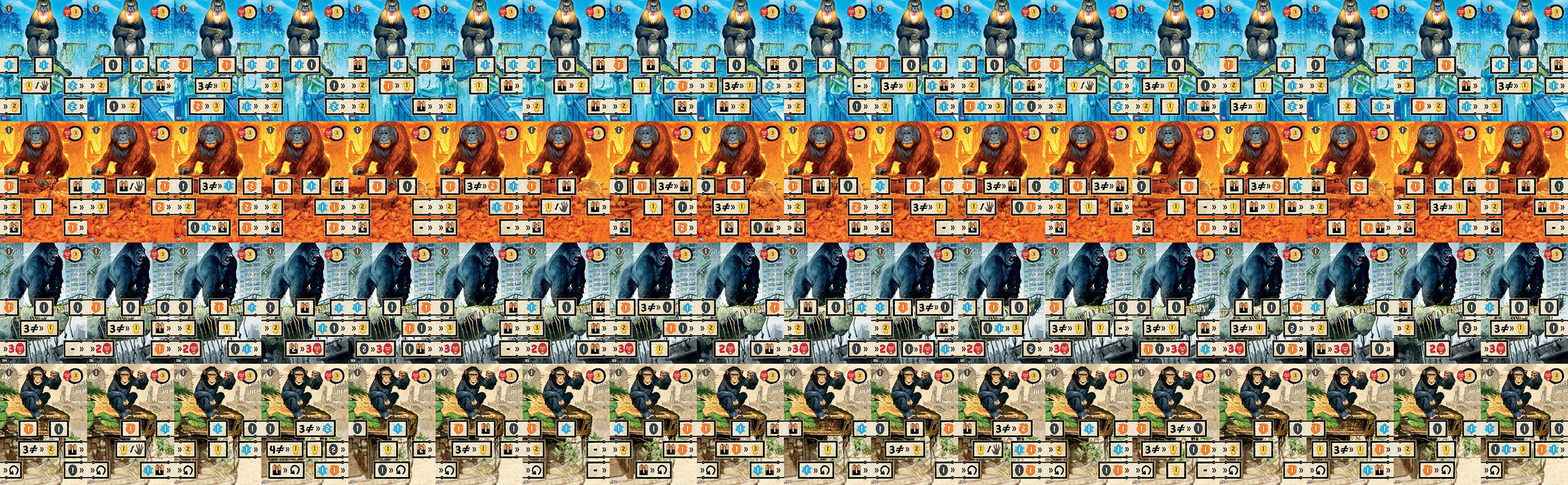
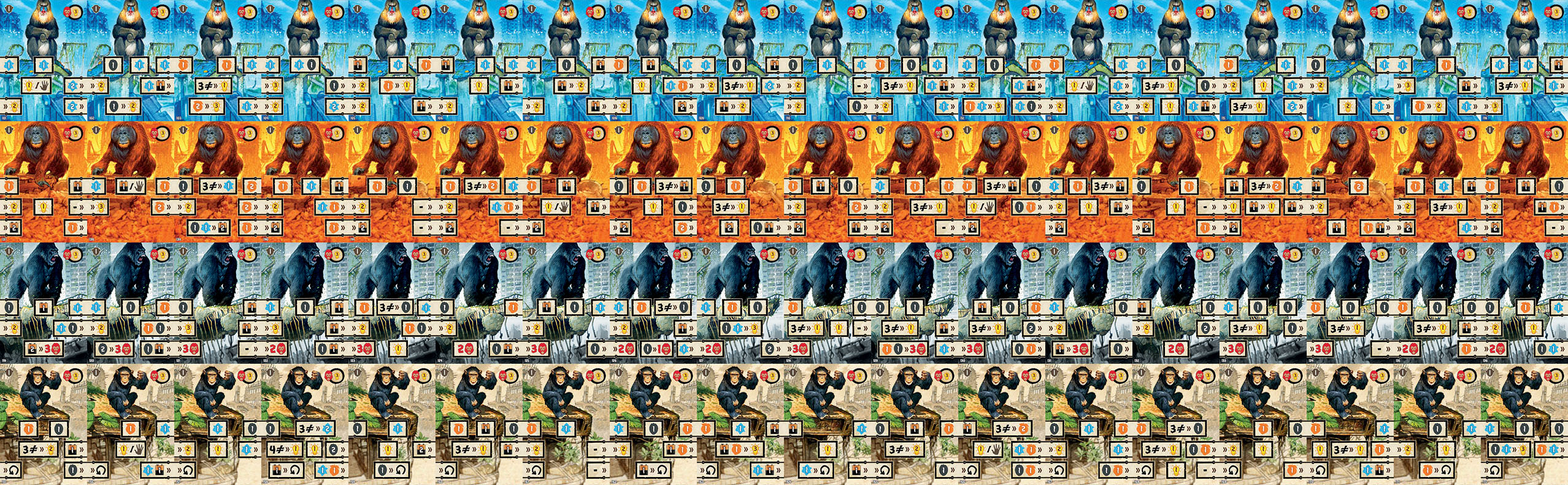
some fixes

Changed region(s): [[0.0, 0.6061, 1.0, 0.7576]]

diff --git a/afterus.js b/afterus.js
@@ -1298,7 +1298,7 @@ var CardsManager = /** @class */ (function (_super) {
                     if (index == 0) {
                         leftFrameDiv = frameDiv;
                     }
-                    if (index == 1 && frames[row].length == 3) {
+                    if (leftFrameDiv && rightFrameDiv && index == 1 && frames[row].length == 3) {
                         var leftWidth = _this.propertyToNumber(leftFrameDiv, 'left') + _this.propertyToNumber(leftFrameDiv, 'width');
                         var space = 142 - leftWidth - _this.propertyToNumber(rightFrameDiv, 'width');
                         frameDiv.style.setProperty('--left', "".concat(leftWidth + (space - _this.propertyToNumber(frameDiv, 'width')) / 2, "px"));

diff --git a/src/cards.ts b/src/cards.ts
@@ -93,7 +93,7 @@ class CardsManager extends CardManager<Card> {
                     if (index == 0) {
                         leftFrameDiv = frameDiv;
                     }
-                    if (index == 1 && frames[row].length == 3) {
+                    if (leftFrameDiv && rightFrameDiv && index == 1 && frames[row].length == 3) {
                         const leftWidth = this.propertyToNumber(leftFrameDiv, 'left') + this.propertyToNumber(leftFrameDiv, 'width');
                         const space = 142 - leftWidth - this.propertyToNumber(rightFrameDiv, 'width');
                         frameDiv.style.setProperty('--left', `${leftWidth + (space - this.propertyToNumber(frameDiv, 'width')) / 2}px`);

diff --git a/src/_cards.scss b/src/_cards.scss
@@ -69,7 +69,7 @@
 
                 .frame {
                     --left: unset;
-                    
+
                     border: 3px dashed transparent;
                     position: absolute;
                     width: var(--width);

diff --git a/modules/php/actions.php b/modules/php/actions.php
@@ -125,6 +125,10 @@ trait ActionTrait {
             $rowEffects = array_filter($args['possibleEffects'], fn($effect) => $effect->row === $row && $effect->cardIndex === $cardIndex);
             $closedFrameIndex = $frame->type == CLOSED ? $index : null;
             $appliedEffect = $this->array_find($rowEffects, fn($effect) => $effect->closedFrameIndex === $closedFrameIndex);
+
+            foreach($currentEffect->left as $resource) {
+                $this->giveResource($playerId, $resource);
+            }
         }
 
         $this->applyActivateEffect($playerId, $appliedEffect, $currentEffect, $line);
@@ -268,11 +272,11 @@ trait ActionTrait {
             return;
         }
 
-        if (!$this->getPlayer($playerId)->phase2cardBought) {
+        //if (!$this->getPlayer($playerId)->phase2cardBought) {
             $this->gamestate->nextPrivateState($playerId, 'next');
-        } else {
+        /*} else {
             $this->gamestate->setPlayerNonMultiactive($playerId, 'next');
-        }
+        }*/
     }
 
     public function cancelNeighborEffect() {
@@ -315,11 +319,11 @@ trait ActionTrait {
             'deckCount' => intval($this->cards->countCardInLocation("deck-$monkeyType-$level")),
         ]);
 
-        if ($args['canUseNeighborToken']) {
+        //if ($args['canUseNeighborToken']) {
             $this->gamestate->nextPrivateState($playerId, 'stay');
-        } else {
+        /*} else {
             $this->gamestate->setPlayerNonMultiactive($playerId, 'next');
-        }
+        }*/
     }
 
     public function endTurn() {

diff --git a/modules/php/utils.php b/modules/php/utils.php
@@ -326,7 +326,7 @@ trait UtilTrait {
                 $tamarins = count(array_filter($line, fn($card) => $card->type == 0));
                 $this->DbQuery("UPDATE `player` SET `player_score` = `player_score` + $tamarins WHERE `player_id` = $playerId");
                 break;
-            default: throw new BgaVisibleSystemException('invalid gainResource');
+            default: throw new BgaVisibleSystemException("invalid gainResource $quantity ".$resource[1]);
         }
     }
 
@@ -387,7 +387,7 @@ trait UtilTrait {
         $currentEffect = $args['currentEffect'];
 
         if ($this->getPlayer($playerId)->autoGain) {
-            while ($currentEffect != null && $this->isFreeEffect($currentEffect) && !$args['reactivate']) {
+            while ($currentEffect != null && $this->isFreeEffect($currentEffect) && !$this->array_some($currentEffect->right, fn($resource) => $resource[1] == REACTIVATE)) {
                 $line = $this->getCardsByLocation('line'.$playerId);
                 $this->applyActivateEffect($playerId, $currentEffect, $currentEffect, $line);
 

diff --git a/material.inc.php b/material.inc.php
@@ -477,7 +477,7 @@ $this->ORANGUTANS2 = [
     new LevelCard(232, [
         [new LeftFrame([[1, ENERGY]], false), new ClosedFrame([[1, GRAIN]]), new RightFrame([[1, FRUIT]], false)],
         [new ClosedFrame([[1, FRUIT], [3, POINT]]), new RightFrame([[1, FRUIT]], true)],
-        [new LeftFrame([[3, ENERGY]], true), new ClosedFrame([[3, DIFFERENT], [2, POINT]]), new RightFrame([], true)],
+        [new LeftFrame([[3, ENERGY]], true), new ClosedFrame([[3, DIFFERENT]], [[2, POINT]]), new RightFrame([], true)],
     ]), 
     new LevelCard(233, [
         [new LeftFrame([[1, FRUIT]], false), new ClosedFrame([[1, GRAIN], [1, FRUIT]]), new RightFrame([[1, ENERGY]], false)],

diff --git a/states.inc.php b/states.inc.php
@@ -117,6 +117,7 @@ $playerActionsGameStates = [
         "args" => "argActivateEffect",
         "possibleactions" => [ "confirmActivations", "cancelLastMove", "cancelResolutions", "cancelAll" ],
         "transitions" => [
+            'stay' => ST_PRIVATE_CONFIRM_ACTIVATIONS,
           'next' => ST_PRIVATE_ACTIVATE_EFFECT,
         ],
     ],

diff --git a/README.md b/README.md
@@ -38,3 +38,10 @@ You can, even if it makes no sens.
 
 Can we use Game Console on a tamarin ?
 No, you can't
+
+## TODO
+last turn banner
+left move on left card shift every other card (same last right)
+user pref to diable confirm discard
+powers
+remove player boards ?
